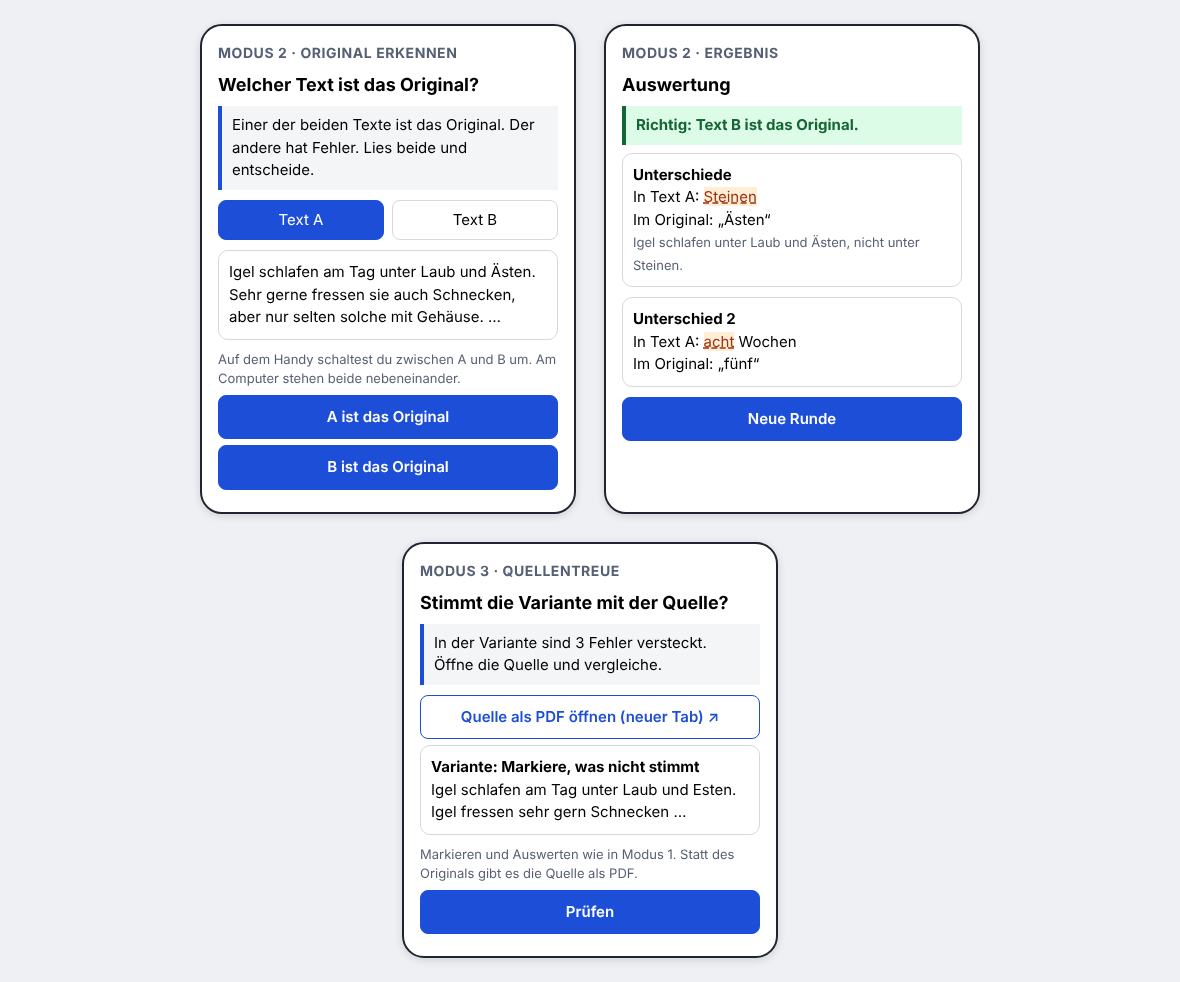
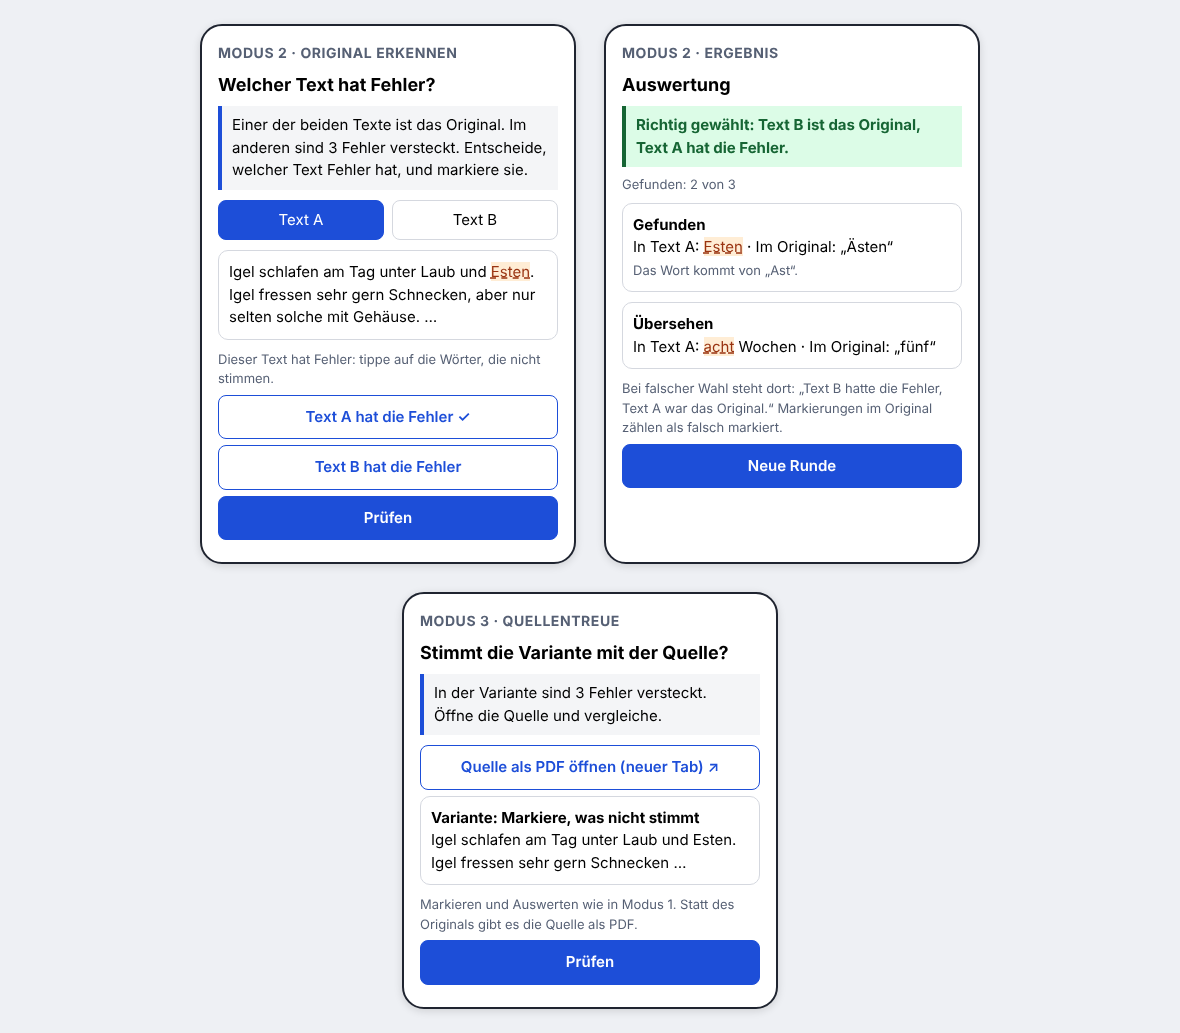
docs: plan 02, mode 2 needs the errors found
Claude-Session: https://claude.ai/code/session_01WcN2j3MAuxfv3JFCJt81f7

Changed region(s): [[0.1525, 0.0, 0.8237, 0.9776], [0.5186, 0.0, 0.8237, 0.4888], [0.7627, 0.3055, 0.7932, 0.336]]

diff --git a/.vibe/mockups/modi-2-3.html b/.vibe/mockups/modi-2-3.html
@@ -94,27 +94,36 @@
 </style>
 <div class="phone">
   <h2>Modus 2 · Original erkennen</h2>
-  <h3>Welcher Text ist das Original?</h3>
-  <div class="goal">Einer der beiden Texte ist das Original. Der andere hat Fehler. Lies beide und entscheide.</div>
+  <h3>Welcher Text hat Fehler?</h3>
+  <div class="goal">
+    Einer der beiden Texte ist das Original. Im anderen sind 3 Fehler versteckt. Entscheide, welcher Text Fehler hat,
+    und markiere sie.
+  </div>
   <div class="tabs"><span class="on">Text A</span><span>Text B</span></div>
   <div class="card">
-    Igel schlafen am Tag unter Laub und Ästen. Sehr gerne fressen sie auch Schnecken, aber nur selten solche mit
+    Igel schlafen am Tag unter Laub und <mark>Esten</mark>. Igel fressen sehr gern Schnecken, aber nur selten solche mit
     Gehäuse. …
   </div>
-  <div class="note">Auf dem Handy schaltest du zwischen A und B um. Am Computer stehen beide nebeneinander.</div>
-  <div class="btn p">A ist das Original</div>
-  <div class="btn p">B ist das Original</div>
+  <div class="note">Dieser Text hat Fehler: tippe auf die Wörter, die nicht stimmen.</div>
+  <div class="btn">Text A hat die Fehler ✓</div>
+  <div class="btn">Text B hat die Fehler</div>
+  <div class="btn p">Prüfen</div>
 </div>
 <div class="phone">
   <h2>Modus 2 · Ergebnis</h2>
   <h3>Auswertung</h3>
-  <div class="res">Richtig: Text B ist das Original.</div>
+  <div class="res">Richtig gewählt: Text B ist das Original, Text A hat die Fehler.</div>
+  <div class="note" style="margin: 0 0 8px">Gefunden: 2 von 3</div>
   <div class="card">
-    <b>Unterschiede</b><br />In Text A: <mark>Steinen</mark><br />Im Original: „Ästen“<br /><span class="note"
-      >Igel schlafen unter Laub und Ästen, nicht unter Steinen.</span
+    <b>Gefunden</b><br />In Text A: <mark>Esten</mark> · Im Original: „Ästen“<br /><span class="note"
+      >Das Wort kommt von „Ast“.</span
     >
   </div>
-  <div class="card"><b>Unterschied 2</b><br />In Text A: <mark>acht</mark> Wochen<br />Im Original: „fünf“</div>
+  <div class="card"><b>Übersehen</b><br />In Text A: <mark>acht</mark> Wochen · Im Original: „fünf“</div>
+  <div class="note">
+    Bei falscher Wahl steht dort: „Text B hatte die Fehler, Text A war das Original.“ Markierungen im Original zählen
+    als falsch markiert.
+  </div>
   <div class="btn p">Neue Runde</div>
 </div>
 <div class="phone">

diff --git a/.vibe/plans/02-weitere-modi.md b/.vibe/plans/02-weitere-modi.md
@@ -37,7 +37,7 @@ Lernende können zu jedem Text zwei weitere Aufgaben üben: erkennen, welcher vo
 ## Key decisions
 
 - Modi laufen als eigene Routen je Klassenstufe: `klasse-5-6` (Modus 1, Fehler markieren), `klasse-5-6-original` (Modus 2), `klasse-5-6-quelle` (Modus 3). Gleiche Texte, gleiche Seeds, gleiche Daten; keine neuen Datenformate für die Texte. (guess)
-- Modus 2 zeigt zwei Texte: das Original (der wörtliche Auszug aus der Quelle) und die Variante mit den Fehlern der Runde. Welcher Text Original und welcher Variante ist, steht nicht dran; der Seed bestimmt die Reihenfolge (Text A / Text B). Lernende wählen, welcher das Original ist. (Ersteller: „zwei Texte, von denen wir nicht wissen, was Original und was Variante ist“)
+- Modus 2 zeigt zwei Texte: das Original (der wörtliche Auszug aus der Quelle) und die Variante mit den Fehlern der Runde. Welcher Text Original und welcher Variante ist, steht nicht dran; der Seed bestimmt die Reihenfolge (Text A / Text B). Lernende entscheiden, welcher Text die Fehler hat (der andere ist das Original), und markieren dort die Fehler wie in Modus 1. (Ersteller: „Bei Modus zwei sollen die Fehler ebenfalls gefunden werden müssen“;  „zwei Texte, von denen wir nicht wissen, was Original und was Variante ist“)
 - Modus 2 hat keine weitere Quelle; Lernende vergleichen die beiden Texte miteinander (Sätze entsprechen sich, wie bei Original und Variante). Nur zwei Texte; mehr Texte später. (Ersteller: „erst mal nur zwei Texte“.) Rückmeldung nur mit Erklärung, kein Punktestand (guess), alle Klassenstufen einschließlich 3–4 (guess).
 - Modus 3 ist Modus 1 mit der PDF der Quelle anstelle des Originals: nur die Variante mit Fehlern und ein Link „Quelle als PDF öffnen“ (neuer Tab, `target=_blank`, `rel=noopener`). Die PDF liegt auf derselben Seite (`public/quellen/…`, vom Build ins Hauptverzeichnis kopiert, getestet), keine fremde Anfrage. (Ersteller: „Modus 3 dann das PDF anstatt des Originals“; früher „PDFs draus machen und die URL einfach als Target=_blank link unterlegen“)
 - PDFs entstehen mit dem Skript des Skills `app-textpack` aus der gespeicherten Quelle; Lizenz, Autorenlink und „unverändert“ stehen auf jeder PDF.
@@ -114,9 +114,9 @@ Skip what earlier answers or the app tell. Answers → "Answers". -->
 
 - Muster „Abweichungen in einer Variante gegen ein bekanntes Original markieren“ (Guide) bleibt Modus 1; unverändert.
 - Modus 3 (Quellentreue) = dasselbe Muster, aber die Quelle als PDF (neuer Tab) statt des Originals auf dem Bildschirm. Gleiche Daten, gleiche Auswertung, gleiche Farben. Keine neue Komponente: `App.vue` zeigt statt des Original-Felds einen Link-Knopf; Pfad der PDF aus `source.pdf` des Pakets.
-- Modus 2 (Original erkennen) ist ein neues Muster: „Zwei Texte vergleichen und das Original wählen“. Fest: Auszug und Variante des Pakets, Stufe. Wechselnd: welche Stellen verfälscht sind (Seed), welcher Text links steht. Erfolg: richtige Wahl; danach alle Unterschiede mit Original, Variante und Erklärung (wie die Karten der Auswertung in Modus 1). Neue Komponente `ChooseView.vue` (zwei Textkarten, Umschalter auf dem Handy, zwei Knöpfe); Muster kommt in den Guide in derselben Scheibe.
+- Modus 2 (Original erkennen) ist ein neues Muster: „Zwei Texte vergleichen und das Original wählen“. Fest: Auszug und Variante des Pakets, Stufe. Wechselnd: welche Stellen verfälscht sind (Seed), welcher Text links steht. Erfolg: richtige Wahl und gefundene Fehler; Auswertung wie in Modus 1 (Gefunden/Übersehen je Fehlerart mit Original, Variante, Erklärung) plus ein Satz zur Wahl. Wer den falschen Text als Variante wählt, findet keinen Fehler; seine Markierungen zählen als falsch markiert, und das Ergebnis nennt das Original. Neue Komponente `ChooseView.vue` (zwei Textkarten, Umschalter auf dem Handy, Wahl „Dieser Text hat die Fehler“, Wörter des gewählten Texts markierbar wie in `WordList.vue`); Muster kommt in den Guide in derselben Scheibe.
 - Figuren: keine. Farben: wie im Guide (Unterschiede im Ergebnis orange mit gestrichelter Linie, Original grün); Farbe ist nie das einzige Zeichen.
-- Grenze: Modus 2 hat nur zwei Texte; das Ergebnis bewertet nur die Wahl, nicht, ob jemand die Fehler benennen kann.
+- Grenze: Modus 2 hat nur zwei Texte; benennen müssen Lernende die Fehler nicht, nur markieren (wie in Modus 1).
 
 ### Completed
 
@@ -135,7 +135,7 @@ Skip what earlier answers or the app tell. Answers → "Answers". -->
 - [ ] `npx --yes github:lernapps/tooling#exp/compact-guidance update`, then `npm install`. It replaces the `lernapps-*` skills: reread
       the ones you use. Commit the update alone; fix its check findings before content.
 - [ ] Scheibe 1, Kompetenz „Text mit seiner Quelle vergleichen“ (Modus 3): (a) PDFs für die fünf Pakete mit `scripts/source-pdf.mjs` aus den gespeicherten Quellseiten nach `public/quellen/de/<id>.pdf`, `source.pdf` in den Paketen, Schema und Prüfung: Pfad muss existieren; (b) Routen `klasse-…-quelle` in `src/app.yaml` und Stufen in `levels.json` (Route → Stufe + Modus, ohne Daten zu verdoppeln); (c) Kern: `State.mode`, `start` liest Route und Modus; (d) `App.vue`: PDF-Knopf statt Original; (e) Texte in `de.json`; (f) Playthrough `quelle.yaml`; (g) Tests; (h) Guide: Kompetenz und Modus; (i) Eintrag: Themen; `npx lernapps check`; Commit.
-- [ ] Scheibe 2, Kompetenz „Zwei Texte vergleichen und das Original erkennen“ (Modus 2): (a) Kern: Zustand `choice`, Aktionen `choose-a`/`choose-b`, Auswertung (richtige Wahl, Unterschiede aus den Stellen), Seed bestimmt Reihenfolge; (b) `ChooseView.vue` und Auswertung; Tastatur: A und B (Tasten 1 und 2); (c) Routen `klasse-…-original`; (d) Texte in `de.json`; (e) Playthrough `original.yaml`; (f) Tests; (g) Guide: neues Muster mit Beispiel; (h) Eintrag: Themen; `npx lernapps check`; Commit.
+- [ ] Scheibe 2, Kompetenz „Zwei Texte vergleichen und das Original erkennen“ (Modus 2): (a) Kern: Zustand `choice` (welcher Text hat die Fehler), Aktionen `choose-a`/`choose-b`, Markierungen auf den Wörtern des gewählten Texts, Auswertung (Wahl richtig, gefundene und übersehene Fehler, Markierungen im Original als falsch), Seed bestimmt die Reihenfolge; (b) `ChooseView.vue` und Auswertung; Tastatur: Tasten 1 und 2 wählen den Text, sonst wie in Modus 1; (c) Routen `klasse-…-original`; (d) Texte in `de.json`; (e) Playthrough `original.yaml`; (f) Tests; (g) Guide: neues Muster mit Beispiel; (h) Eintrag: Themen; `npx lernapps check`; Commit.
 - [ ] Scheibe 3, Dokumentation: arc42 (Bausteine, Laufzeit, Verteilung für Modi und `public/quellen`), Startseite (Beschreibung, Kompetenzen, Begründung: Modi), Skill `app-textpack` (PDF-Schritt jetzt Pflicht, Pfad), `.vibe/texts-log.md`; `npx arc42 validate --strict`; `npx lernapps check`; Commit.
 - [ ] The content guide describes the app as it is now: competencies, chapters, patterns, procedure for the next
       increment (`app-content-matches`). `grep -c "FILL IN" .agents/skills/app-content/SKILL.md` prints 0.
